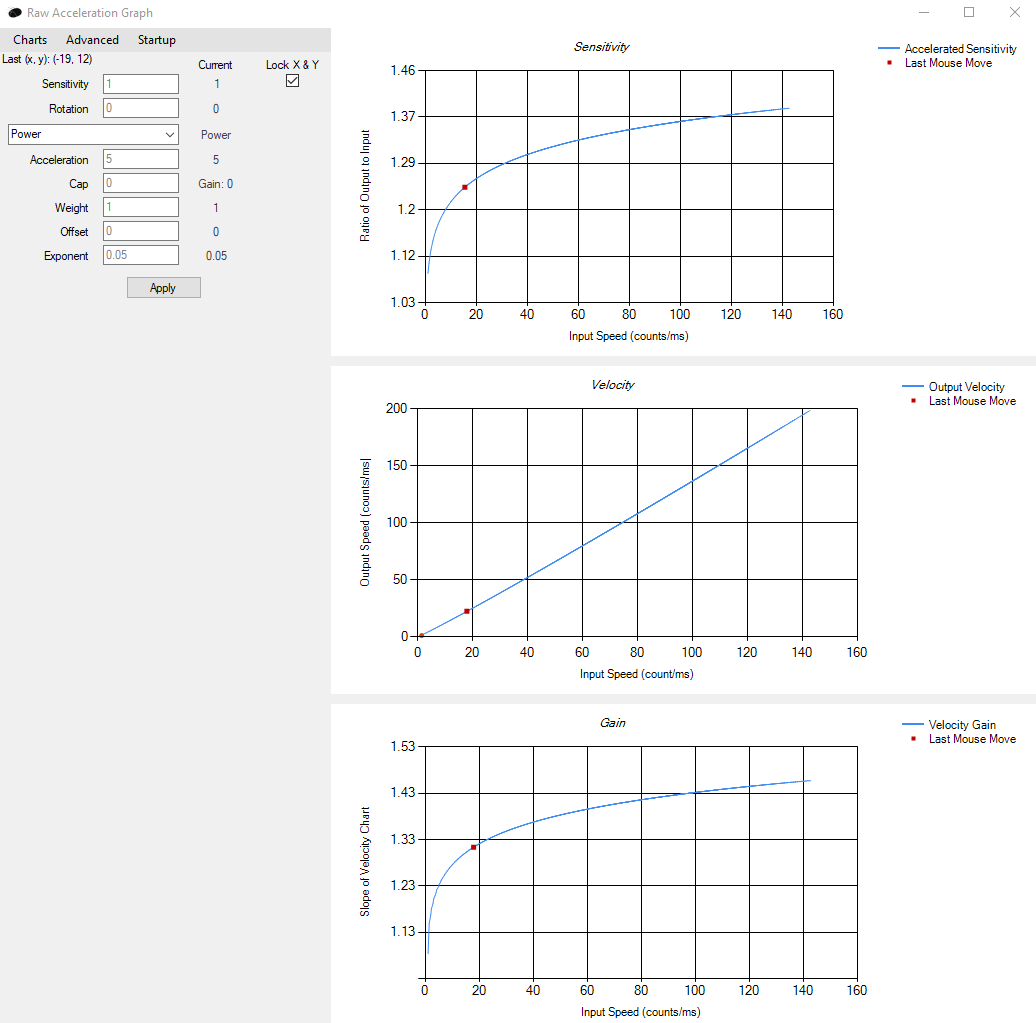
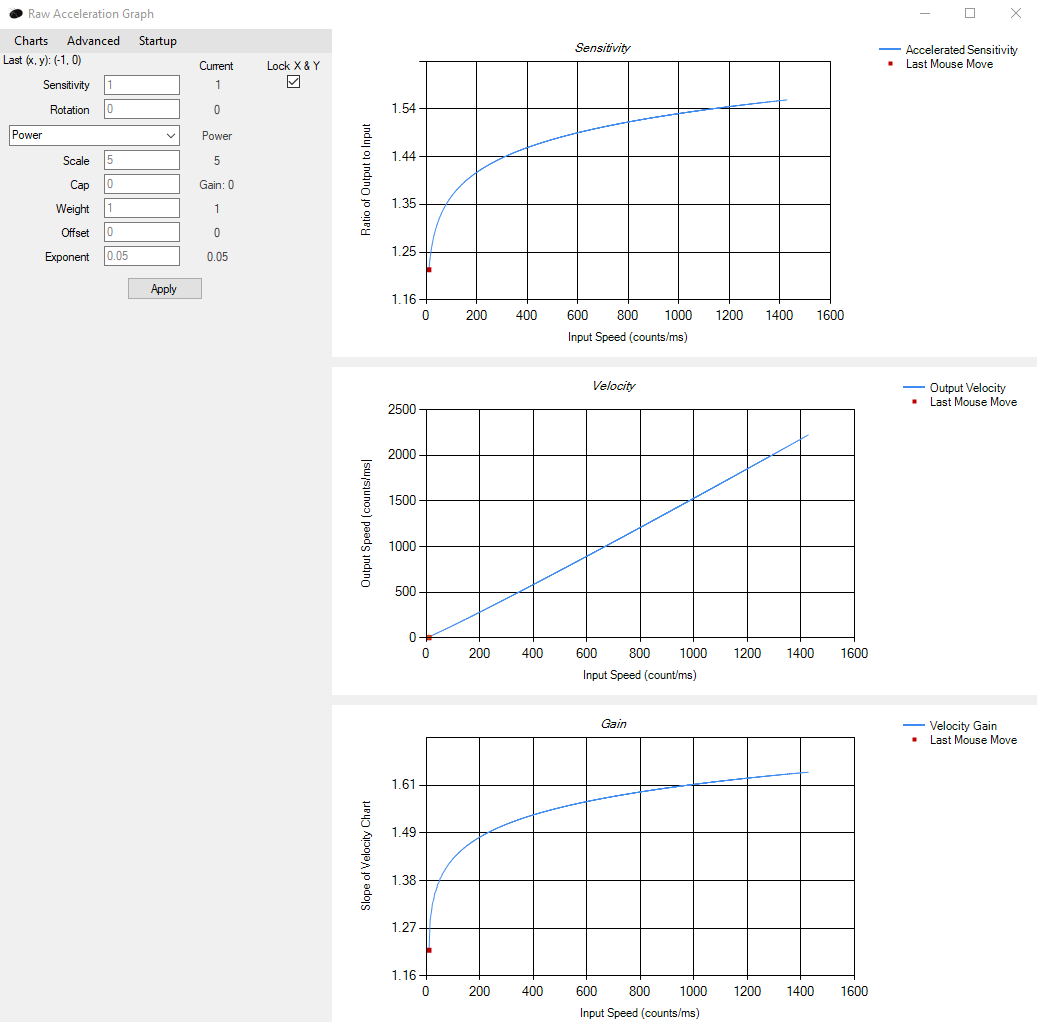
Rename accel to scale in power mode

diff --git a/grapher/Layouts/PowerLayout.cs b/grapher/Layouts/PowerLayout.cs
@@ -11,7 +11,7 @@ namespace grapher.Layouts
             Index = (int)AccelMode.power;
             LogarithmicCharts = false;
 
-            AccelLayout = new OptionLayout(true, Acceleration);
+            AccelLayout = new OptionLayout(true, Scale);
             CapLayout = new OptionLayout(true, Cap);
             WeightLayout = new OptionLayout(true, Weight);
             OffsetLayout = new OptionLayout(true, Offset);

diff --git a/grapher/ReadMe/Guide.md b/grapher/ReadMe/Guide.md
@@ -63,10 +63,10 @@ See "Horizontal and Vertical" in the philosophy section to understand what these
 The Raw Accel GUI reads the output of the raw input stream, and thus the output of the Raw Accel Driver, and displays on the graphs red points corresponding to the last mouse movements. These calculations are slightly slow but build up a cache, so shaking your mouse around on GUI start should make the points display fast and smoothly. This feature can be turned off in the "Charts" menu.
 
 ### Scale by DPI and Poll Rate
-This option does not scale your acceleration curve in any way. Rather, it scales the set of points used to graph your curve, and shows you a window of input speed relevant for your chosen DPI and Poll Rate.
+This option does not scale your acceleration curve in any way. Rather, it scales the set of points used to graph your curve, and shows you a window of input speed relevant for your chosen DPI and Poll Rate. The poll rate is also used to determine the Last Mouse Move points and therefore should be set for accuracy in that measurement.
 
 ## Acceleration Styles
-[To be added: pictures of the styles, typical settings]
+The examples of various types below show some typical settings, without a cap or offset, for a mouse at 1200 DPI and 1000 hz.
 
 ### Linear
 This is simplest style used by most; it is simply a line rising at a given rate. This is a good choice for new users.
@@ -77,7 +77,7 @@ This is the style found in Quake 3, Quake Live, and countless inspired followers
 ![ClassicExample](\images\classic_example.png)
 
 ### Power
-This is the style found in CS:GO and Source Engine games. The user can set a rate by which the speed is multplied, and then an exponent to which the product is raised, which is then the final multiplier (no adding to 1.). In the aforementioned games the default m_customaccel_exponent value of 1.05 would be a value of 0.05 in Raw Accel, leading to a concave slowly rising curve. CS:GO and Source Engine games apply acceleration in an fps-dependent manner, so Raw Accel can only simulate acceleration from these games at a given fps. To do so, set rate to 1000/(in-game fps).
+This is the style found in CS:GO and Source Engine games (m_customaccel 3). The user can set a rate by which the speed is multplied, and then an exponent to which the product is raised, which is then the final multiplier (no adding to 1.). In the aforementioned games the default m_customaccel_exponent value of 1.05 would be a value of 0.05 in Raw Accel, leading to a concave slowly rising curve. CS:GO and Source Engine games apply acceleration in an fps-dependent manner, so Raw Accel can only simulate acceleration from these games at a given fps. To do so, set scale to 1000/(in-game fps).
 ![PowerExample](\images\power_example.png)
 
 ### Natural & NaturalGain
